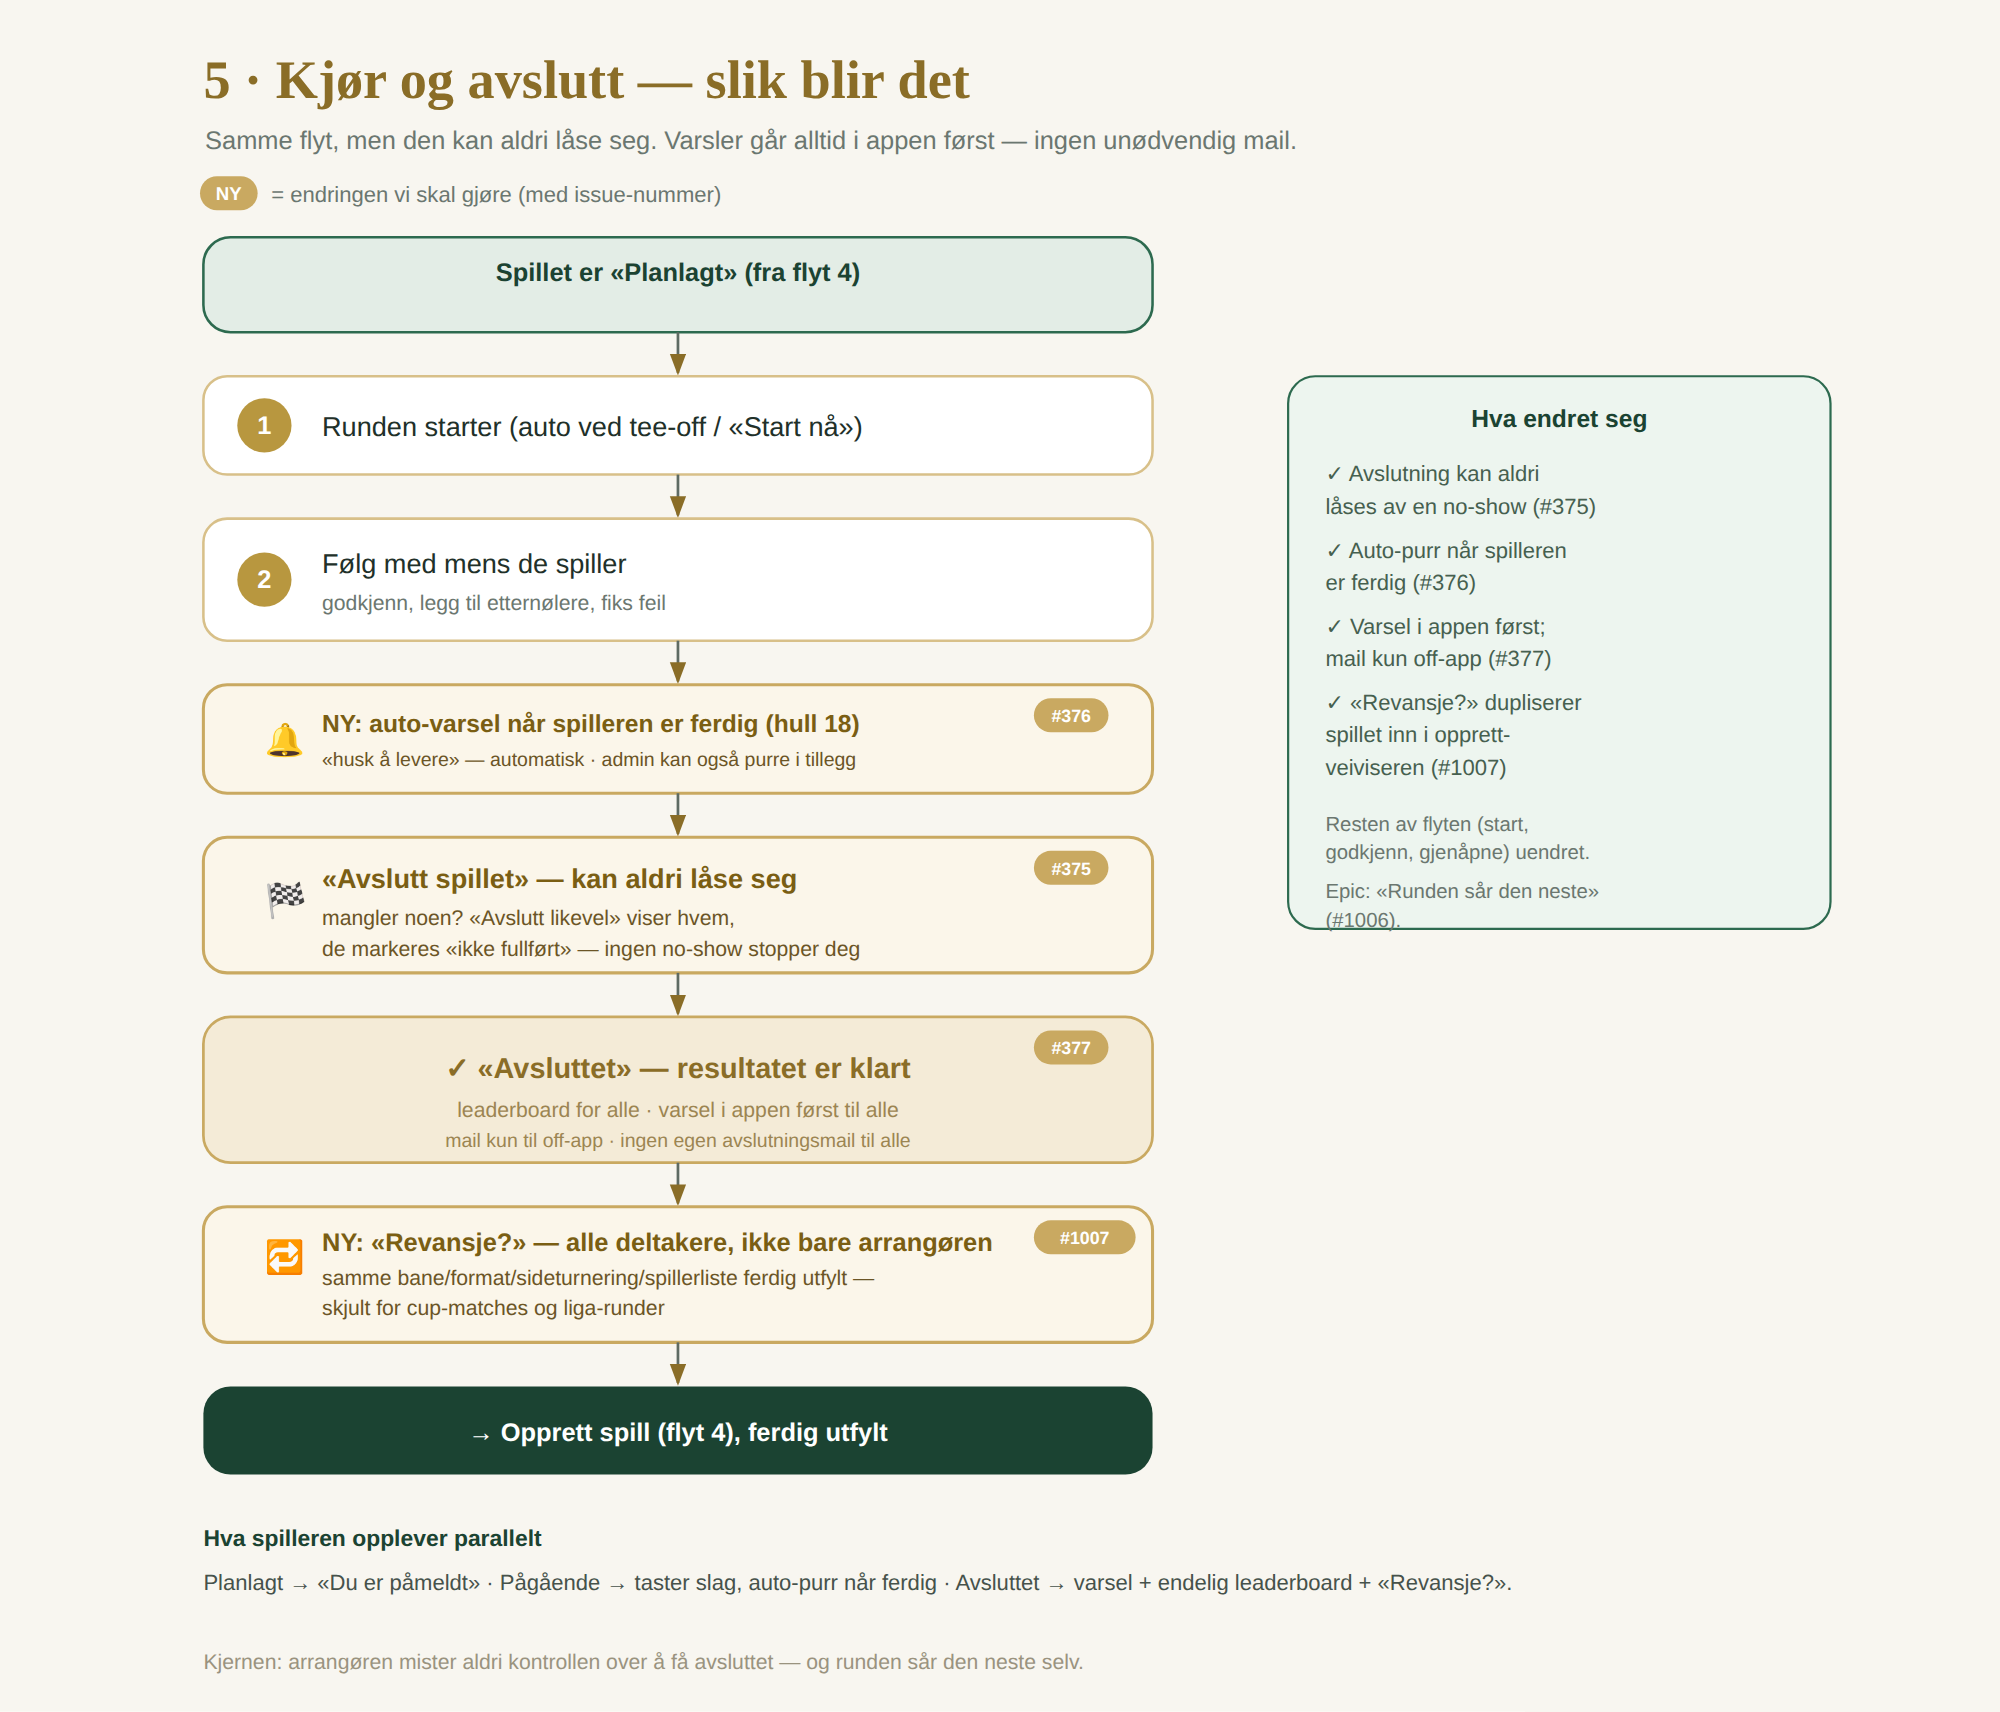
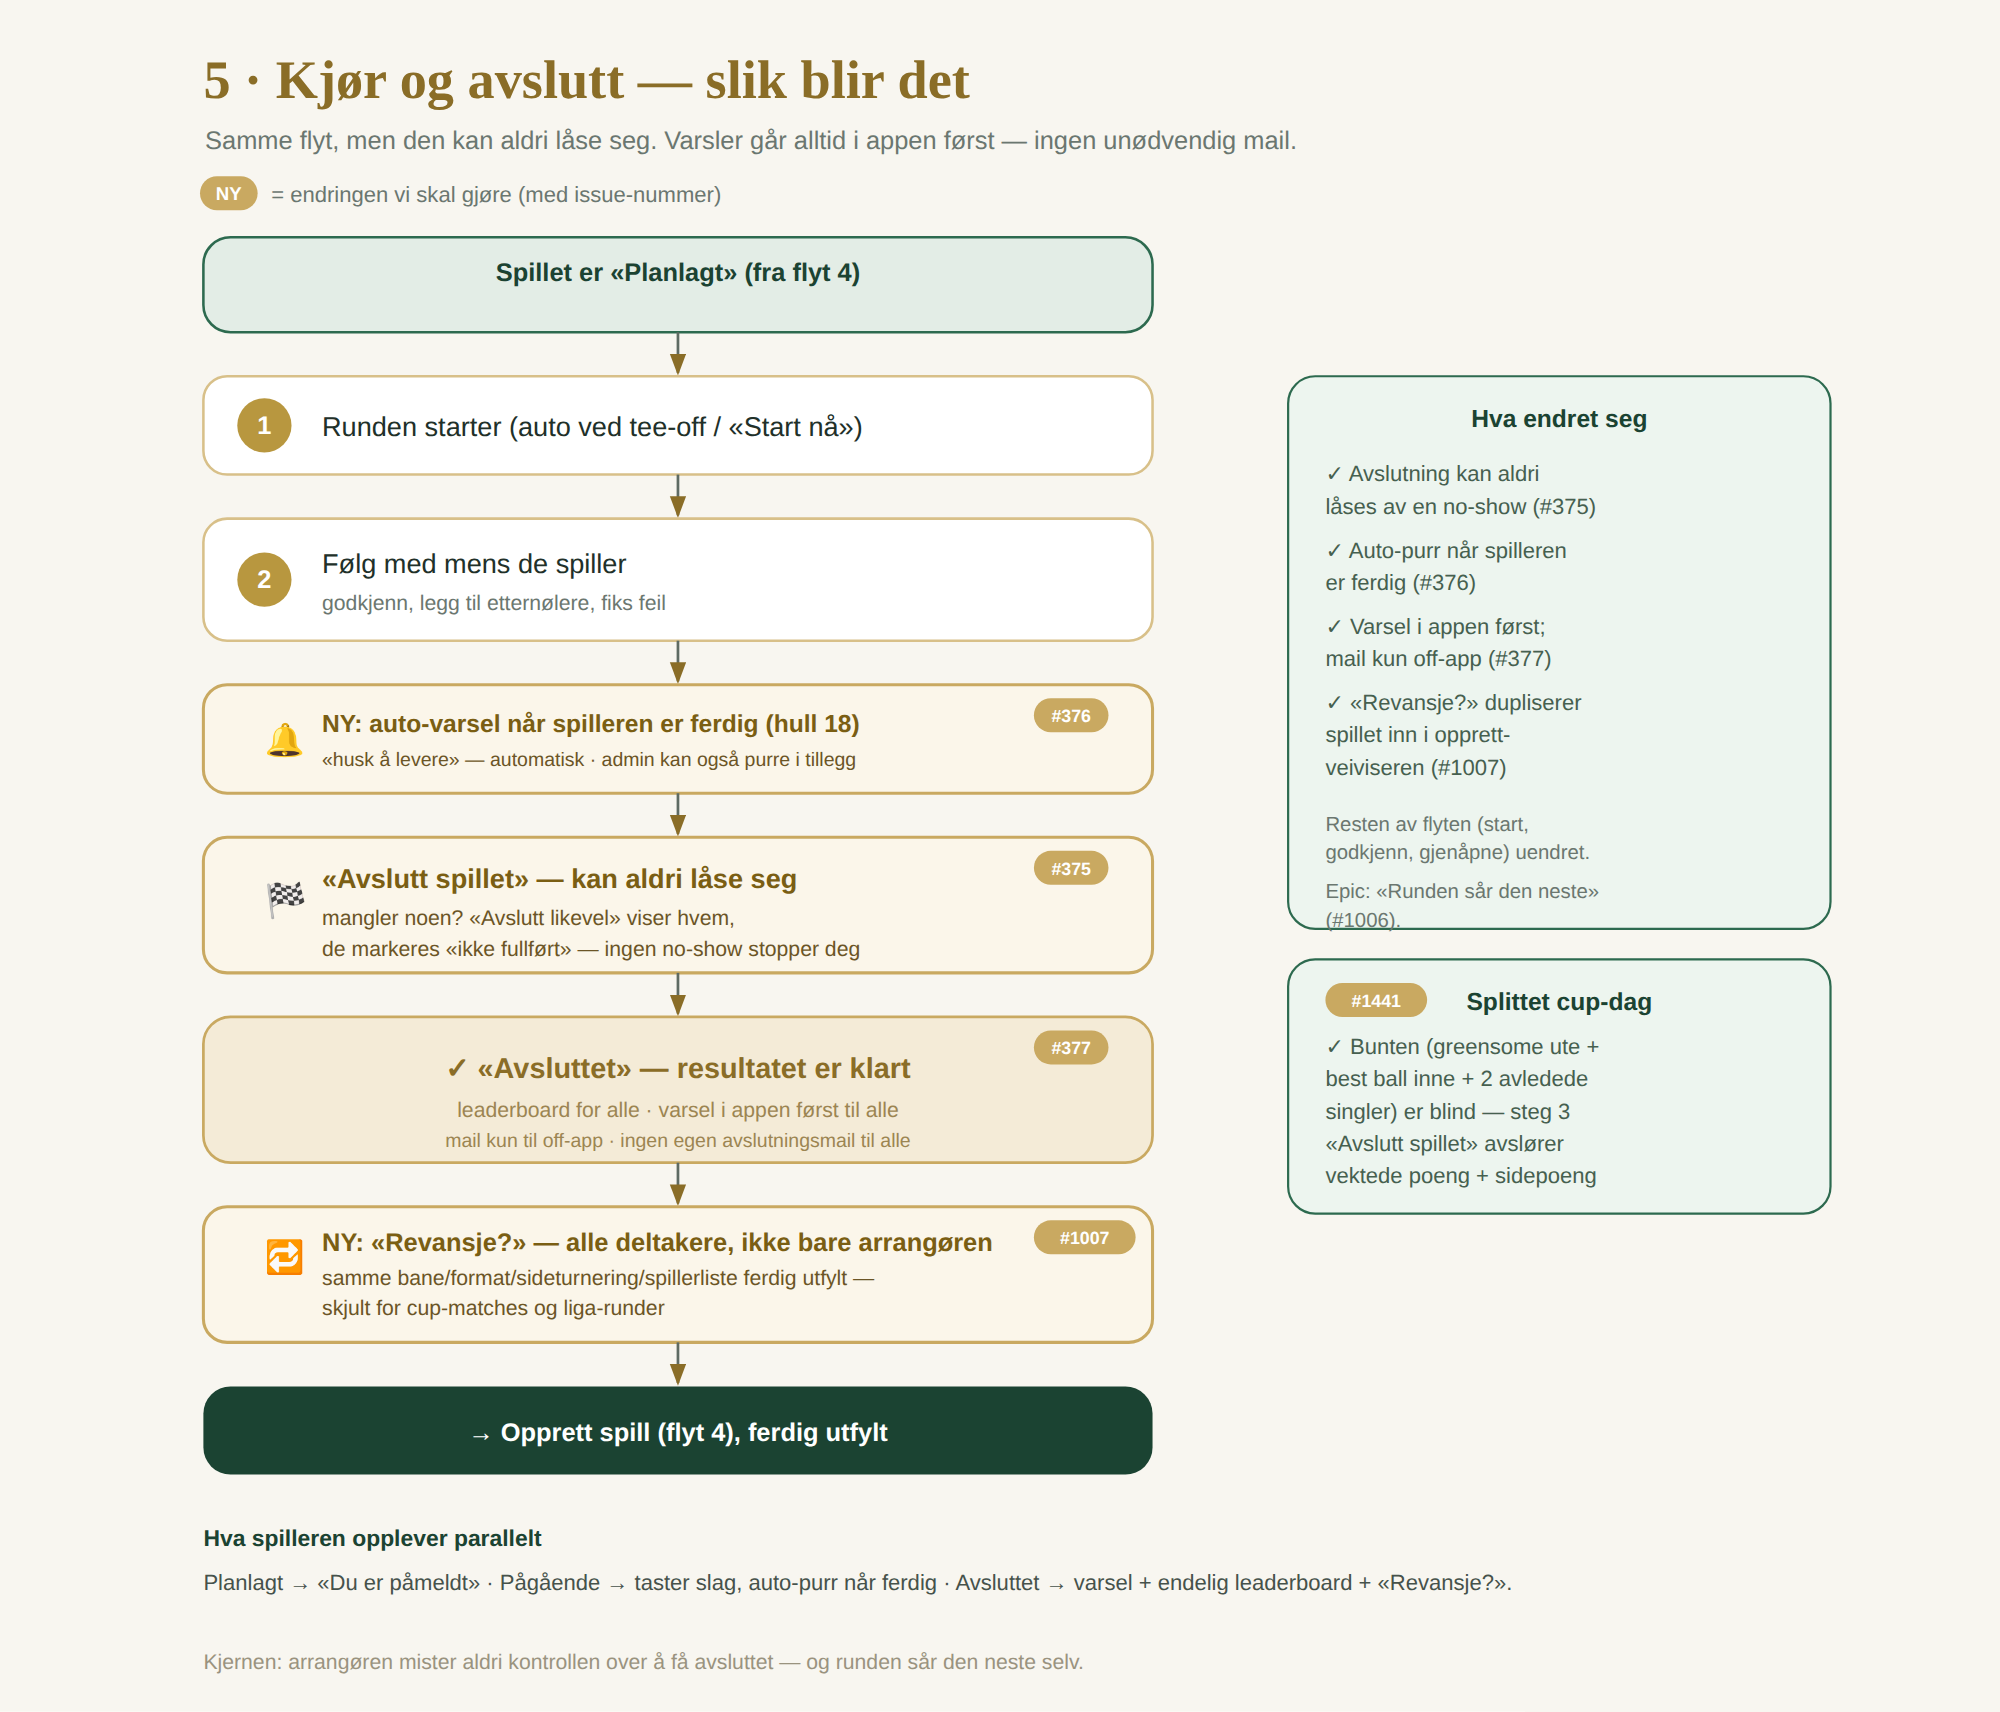
docs(flows): map the split cup day into flow 5 (kjør og avslutt)
No dedicated cup/tournament flow diagram exists (docs/flows/ covers
the 5 core flows + liga) — flow 5 already owns the "organizer finishes
the game" step that the split cup day's blind reveal hangs off, so
this is where the feature belongs on the map rather than a new file.

Adds a right-rail annotation box (#1441, same visual language as the
existing #375/#376/#377/#1007 boxes) documenting: the bundle
(greensome front9 + best ball back9 host + 2 derived singles), that
it stays blind until step 3 ("Avslutt spillet"), and that finishing
reveals weighted points + side awards. README's flow-5 bullet list
gets the matching one-liner.

PNG regenerated per docs/flows/README.md's instructions:
`PW_CHROMIUM_EXECUTABLE_PATH=/opt/pw-browsers/chromium-1194/chrome-linux/chrome
node docs/flows/regen-png.mjs` (the bundled Playwright chromium build
wasn't present at the expected path, per the README's documented
#1183 workaround). Only 05-kjor-og-avslutt-spill-fremtid.png changed —
the other 10 diagrams render byte-identical since their SVG source
didn't change.

Refs #1441

Changed region(s): [[0.651, 0.5572, 0.837, 0.712]]

diff --git a/docs/flows/README.md b/docs/flows/README.md
@@ -34,7 +34,7 @@ Spiller:   [1 Bli bruker] ─► [2 Bli med] ─► [3 Spille en runde]
 - **Flyt 2 — Bli med:** #357 (vedvarende «Finn turneringer»), #367 (tydelig påmeldingsvalg = synlighet), #368 (invite_only-blindvei), #362 (lag-klarhet), #369 ✓ (venner + åpen-for-venner — bygget).
 - **Flyt 3 — Spille en runde:** #360 (peer-godkjenning kan ikke låse seg). #358 (live leaderboard) + #359 (lagret-merke) var **allerede løst** — lukket etter kode-verifisering.
 - **Flyt 4 — Opprett spill:** #373 (antall før format), #374 (best ball uten 8-lås), #371 (peer-godkjenning av som default), #367 (tydelig påmelding), #372 (copy-bug env-var). Parkert større: #22 (alle kan opprette), #366 (bruker-baner). #370 lukket (beholder «kun invitasjon» som default).
-- **Flyt 5 — Kjør og avslutt:** #375 (avslutt-likevel — aldri permanent låst), #376 (auto-varsel når spilleren er ferdig + admin-purring), #377 (avslutnings-varsel via samme in-app-først-logikk, ingen egen avslutningsmail).
+- **Flyt 5 — Kjør og avslutt:** #375 (avslutt-likevel — aldri permanent låst), #376 (auto-varsel når spilleren er ferdig + admin-purring), #377 (avslutnings-varsel via samme in-app-først-logikk, ingen egen avslutningsmail), #1441 ✓ (splittet cup-dag — bunten med greensome/best ball/avledede singler holdes blind til arrangøren avslutter host-spillet, som avslører vektede poeng + sidepoeng).
 - **Flyt 6 — Liga:** #453 ✓ (bygget) — ny sesong-konkurranse over flere runder. Epic [#452](https://github.com/jdlarssen/golf-app/issues/452). Fase 1: frittstående slagspill netto. Fase 2: brutto + sesong-modeller (beste-N, poeng). Fase 3: klubb-liga (#480) + medlemmer melder seg på selv. Flere modi senere. Kun fremtids-diagram (flyten fantes ikke før).
 
 ## Tegn-forklaring
